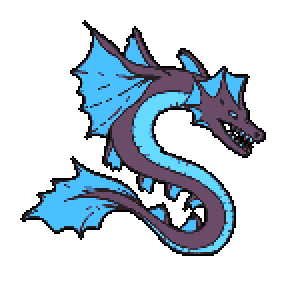
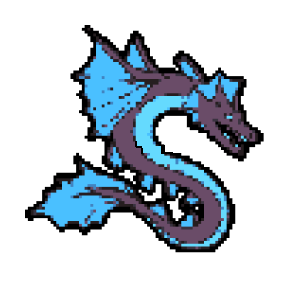
animation + buttons

Changed region(s): [[0.06, 0.06, 0.9, 0.87], [0.33, 0.24, 0.39, 0.3], [0.48, 0.51, 0.51, 0.54]]

diff --git a/index.html b/index.html
@@ -17,7 +17,7 @@
     <title>Arcane</title>
   </head>
 
-  <body class="p-6">
+  <body class="p-3">
     <main id="app">
       <div class="player">
         <div>
@@ -67,20 +67,20 @@
 
         <!-- Waves -->
 
-        <div id="waves" class="flex">
+        <div id="waves" class="flex mb-3">
           <div id="wave-h" class="flex justify-end items-center w-1/2 h-full">
-            <div id="skew" class="w-6 h-3 bg-black p-1 mx-2">
+            <div id="skew" class="w-6 h-3 md:w-8 md:h-4 bg-black p-1 mx-2">
               <div class="w-full h-full bg-green-500"></div>
             </div>
-            <div id="skew" class="w-6 h-3 bg-black p-1 mr-8">
+            <div id="skew" class="w-6 h-3 md:w-8 md:h-4 bg-black p-1 mr-8">
               <div class="w-full h-full bg-red-500"></div>
             </div>
           </div>
           <div id="wave-m" class="flex items-center w-1/2 h-full">
-            <div id="skew" class="w-6 h-3 bg-black p-1 ml-8">
+            <div id="skew" class="w-6 h-3 md:w-8 md:h-4 bg-black p-1 ml-8">
               <div class="w-full h-full bg-green-500"></div>
             </div>
-            <div id="skew" class="w-6 h-3 bg-black p-1 mx-2">
+            <div id="skew" class="w-6 h-3 md:w-8 md:h-4 bg-black p-1 mx-2">
               <div class="w-full h-full bg-red-500"></div>
             </div>
           </div>
@@ -93,14 +93,14 @@
 
           <div
             id="hero"
-            class="flex flex-col-reverse md:flex-col w-screen md:w-1/2 md:h-full"
+            class="flex flex-col-reverse md:flex-col w-full md:w-1/2 md:h-full"
           >
-            <div id="status" class="w-full px-8">
+            <div id="status" class="w-full pl-48 md:pl-0">
               <!-- Bars -->
 
               <!-- HP -->
 
-              <div class="flex items-center max-w-md mx-auto py-1">
+              <div class="flex flex-row-reverse md:flex-row items-center max-w-sm mx-auto py-1">
                 <img src="./svg/heart.svg" alt="" class="h-4 w-auto md:h-6" />
 
                 <div class="w-full h-4 md:h-6 p-1 mx-2 rounded-full bg-red-300">
@@ -113,7 +113,7 @@
 
               <!-- Shield -->
 
-              <div class="flex items-center max-w-md mx-auto">
+              <div class="flex flex-row-reverse md:flex-row items-center max-w-sm mx-auto">
                 <img src="./svg/shield.svg" alt="" class="h-4 w-auto md:h-6" />
 
                 <div
@@ -125,7 +125,7 @@
 
               <!-- Energy -->
 
-              <div class="flex items-center max-w-md mx-auto py-1">
+              <div class="flex flex-row-reverse md:flex-row items-center max-w-sm mx-auto py-1">
                 <img src="./svg/energy.svg" alt="" class="h-4 w-auto md:h-6" />
 
                 <div
@@ -136,10 +136,10 @@
               </div>
             </div>
 
-            <div class="w-full h-full relative">
+            <div class="w-full h-full p-4 flex flex-row-reverse md:justify-center">
               <img
-                id="hero-a"
-                class="absolute right-0 bottom-0 md:left-0 md:top-0 w-1/3"
+                id="avatar"
+                class="w-1/2"
                 src="./images/hero.png"
                 alt=""
               />
@@ -148,12 +148,12 @@
 
           <!-- Monster -->
 
-          <div id="monster" class="flex flex-col w-screen md:w-1/2 md:h-full">
-            <div id="status" class="w-full px-8">
+          <div id="monster" class="flex flex-col w-full md:w-1/2 md:h-full">
+            <div id="status" class="w-full pr-48 md:pr-0">
               <!-- Bars -->
               <!-- HP -->
 
-              <div class="flex items-center max-w-md mx-auto py-1">
+              <div class="flex items-center max-w-sm mx-auto py-1">
                 <img src="./svg/heart.svg" alt="" class="h-4 w-auto md:h-6" />
                 <div class="w-full h-4 md:h-6 p-1 mx-2 rounded-full bg-red-300">
                   <div
@@ -165,7 +165,7 @@
 
               <!-- Shield -->
 
-              <div class="flex items-center max-w-md mx-auto">
+              <div class="flex items-center max-w-sm mx-auto">
                 <img src="./svg/shield.svg" alt="" class="h-4 w-auto md:h-6" />
                 <div
                   class="w-full h-4 md:h-6 p-1 mx-2 rounded-full bg-yellow-200"
@@ -176,7 +176,7 @@
 
               <!-- Energy -->
 
-              <div class="flex items-center max-w-md mx-auto py-1">
+              <div class="flex items-center max-w-sm mx-auto py-1">
                 <img src="./svg/energy.svg" alt="" class="h-4 w-auto md:h-6" />
                 <div
                   class="w-full h-4 md:h-6 p-1 mx-2 rounded-full bg-blue-200"
@@ -186,18 +186,23 @@
               </div>
             </div>
 
-            <div class="w-full h-full relative">
+            <div class="w-full h-full p-4 flex md:justify-center">
               <img
-                id="monster-a"
-                class="absolute left-0 top-0 md:right-0 md:bottom-0 w-1/2"
-                src="./images/Monster.png"
+                id="avatar"
+                class="w-1/2"
+                src="./images/monster.png"
                 alt=""
               />
             </div>
           </div>
         </div>
 
-        <div id="buy" class="w-full bg-red-700">Buy</div>
+        <div id="buy" class="flex flex-wrap justify-center items-center w-full my-4">
+          <button @click="loadNextRound()" class="m-1 px-2 py-1 text-white rounded border border-white">Next Monster</button>
+          <button @click="rstGame" class="m-1 px-2 py-1 text-white rounded border border-white">Reset Game</button>
+          <button @click="playerAttack(user.attack)" class="m-1 px-2 py-1 text-white rounded border border-white">Attack</button>
+          <button @click="enemyAttack(enemy.attack)" class="m-1 px-2 py-1 text-white rounded border border-white">Enemy Attack</button> 
+        </div>
       </div>
     </main>
     <script src="./scripts/config.js"></script>

diff --git a/style.css b/style.css
@@ -3,12 +3,16 @@
   padding: 0;
   font-family: "Press Start 2P", cursive;
   letter-spacing: 1px;
+  -webkit-text-stroke: 1px black;
 }
 
 body {
   background-image: url("./images/back.png");
   background-size: cover;
-  background-position: center center;
+}
+
+#rounds {
+  -webkit-text-stroke: 3px black;
 }
 
 .smooth-bar {
@@ -28,7 +32,7 @@ body {
 }
 
 #fighters {
-  height: 70vh;
+  height: 65vh;
 }
 
 #hero,
@@ -36,12 +40,25 @@ body {
   height: 50%;
 }
 
-#hero-a {
-  transform: scaleX(-1);
+#hero #avatar {
+  animation: avatar 1.5s infinite ease;
 }
 
-#monster-a {
-  transform: scaleX(1);
+#monster #avatar {
+  animation: avatar 1.5s infinite 1s ease;
+}
+
+@keyframes avatar {
+
+  0% {
+    transform: scaleX(1) translateY(0);
+  }
+  50% {
+    transform: scaleX(1) translateY(1em);
+  }
+  100% {
+    transform: scaleX(1) translateY(0);
+  }
 }
 
 @media screen and (min-width: 768px) {
@@ -50,11 +67,16 @@ body {
     height: 100%;
   }
 
-  #hero-a {
-    transform: scaleX(1);
-  }
+  @keyframes avatar {
 
-  #monster-a {
-    transform: scaleX(-1);
+    0% {
+      transform: scaleX(-1) translateY(0);
+    }
+    50% {
+      transform: scaleX(-1) translateY(1em);
+    }
+    100% {
+      transform: scaleX(-1) translateY(0);
+    }
   }
 }
